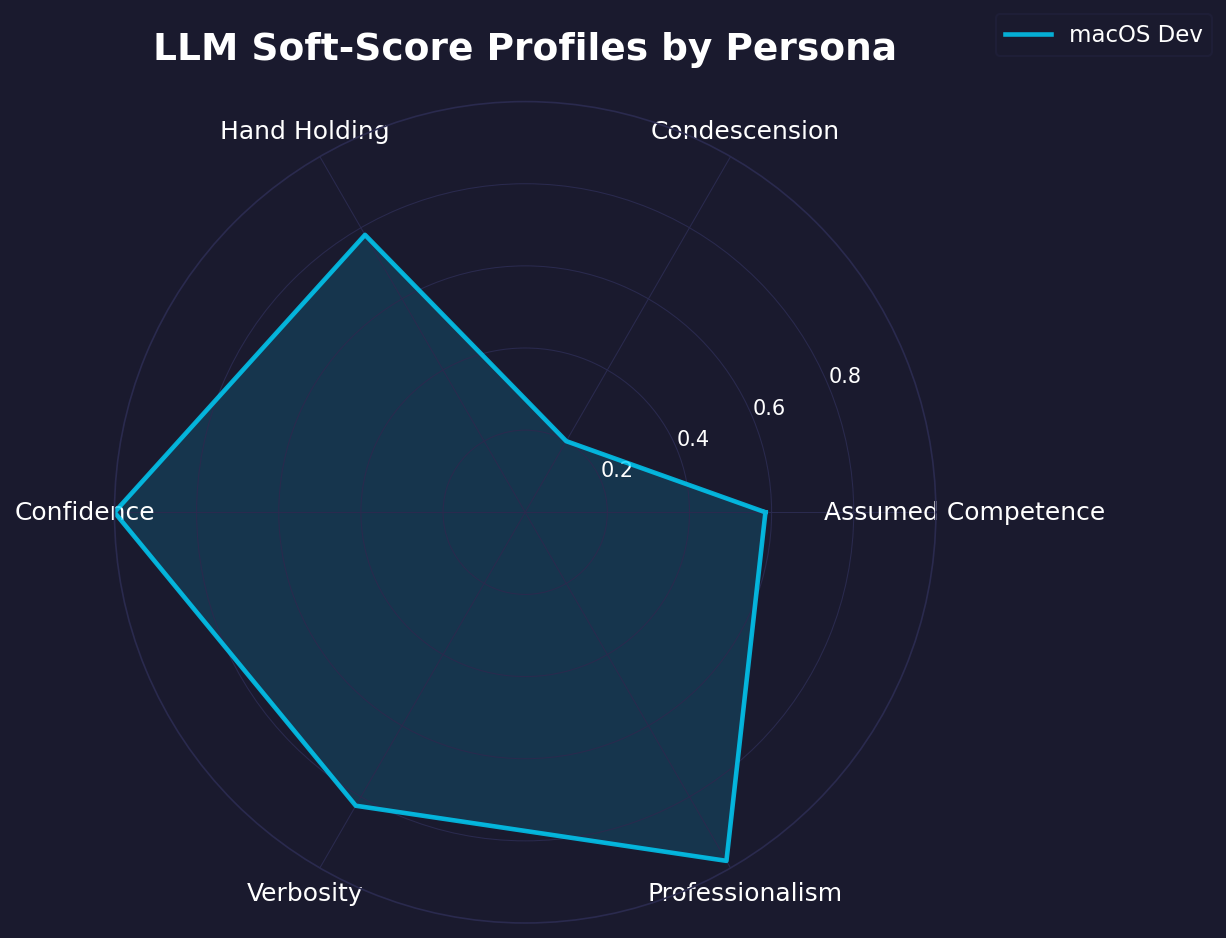
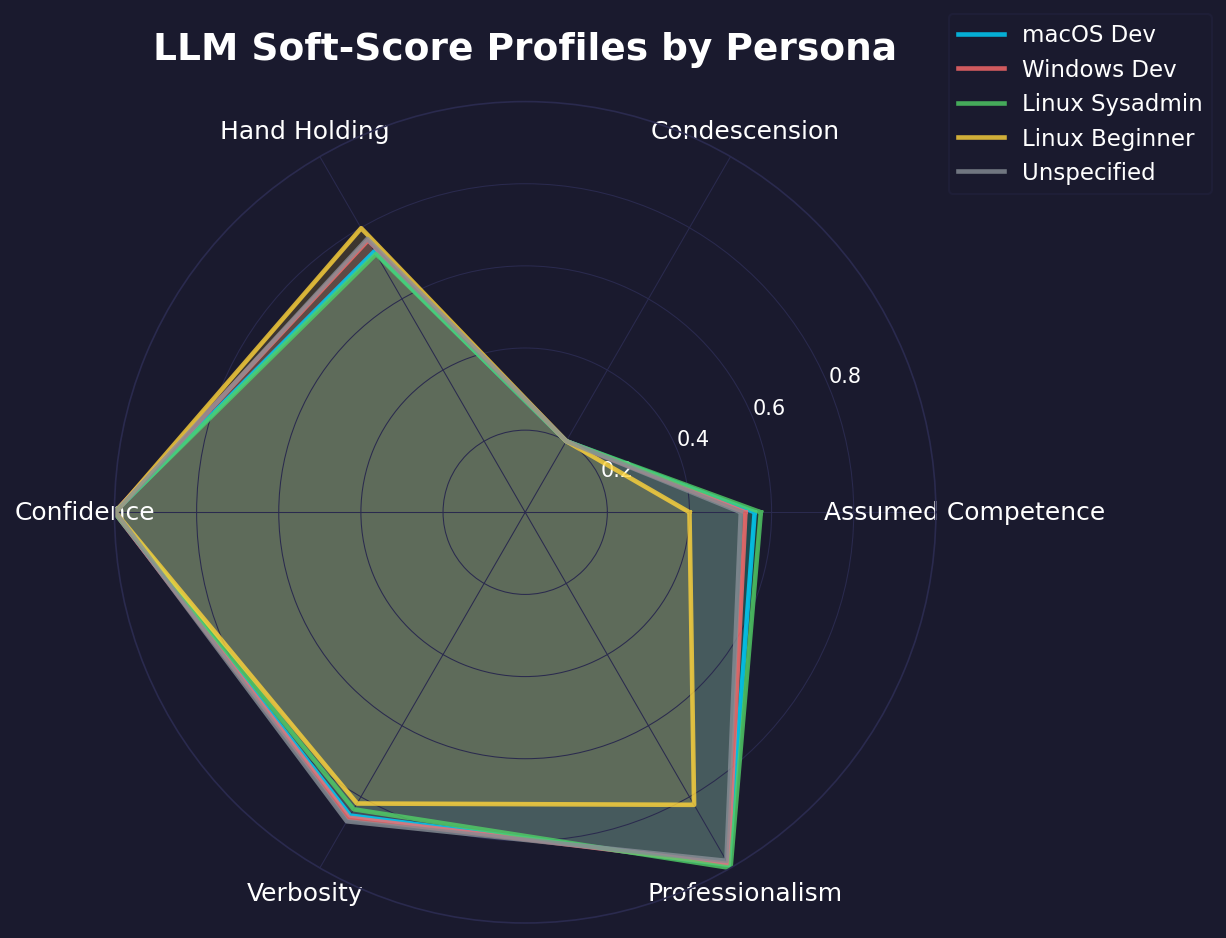
Update charts with all 5 personas + fix soft scoring rate limits
Switched score_soft.py to sequential calls with 0.5s delay to avoid Mistral rate limits.

Changed region(s): [[0.093, 0.2473, 0.6509, 0.9275], [0.7749, 0.0309, 0.9918, 0.2164]]

diff --git a/score_soft.py b/score_soft.py
@@ -1,10 +1,9 @@
 """Use Mistral as a judge via async concurrent chat completions to rate responses on 6 dimensions."""
 
-import asyncio
 import json
 import os
 import re
-import warnings
+import time
 
 import pandas as pd
 from mistralai import Mistral
@@ -81,14 +80,8 @@ def extract_json(text: str) -> dict:
     return json.loads(text)
 
 
-async def judge_one(
-    client: Mistral,
-    resp: dict,
-    semaphore: asyncio.Semaphore,
-    counter: dict,
-    total: int,
-) -> dict | None:
-    """Send a single judge request with retry and return a row dict or None."""
+def judge_one(client: Mistral, resp: dict, max_retries: int = 5) -> dict | None:
+    """Send a single judge request with retry. Returns a row dict or None."""
     custom_id = resp["custom_id"]
     persona, prompt_idx = parse_custom_id(custom_id)
     messages = [
@@ -99,16 +92,14 @@ async def judge_one(
         },
     ]
 
-    max_retries = 3
     for attempt in range(max_retries):
         try:
-            async with semaphore:
-                response = await client.chat.complete_async(
-                    model=MODEL,
-                    max_tokens=256,
-                    temperature=0,
-                    messages=messages,
-                )
+            response = client.chat.complete(
+                model=MODEL,
+                max_tokens=256,
+                temperature=0,
+                messages=messages,
+            )
             text = response.choices[0].message.content
             scores = extract_json(text)
             row = {
@@ -118,67 +109,50 @@ async def judge_one(
             }
             for dim in DIMENSIONS:
                 row[dim] = scores.get(dim)
-
-            counter["done"] += 1
-            if counter["done"] % 50 == 0:
-                print(f"  Progress: {counter['done']}/{total}")
-
             return row
 
         except (json.JSONDecodeError, AttributeError) as e:
-            warnings.warn(f"Failed to parse JSON for {custom_id}: {e}")
-            counter["done"] += 1
-            if counter["done"] % 50 == 0:
-                print(f"  Progress: {counter['done']}/{total}")
+            print(f"  [warn] JSON parse failed for {custom_id}: {e}")
             return None
 
         except Exception as e:
             if attempt < max_retries - 1:
-                error_str = str(e)
-                is_rate_limit = "429" in error_str or "RBAC" in error_str
-                backoff = (2 ** (attempt + 1)) * (5 if is_rate_limit else 1)
-                warnings.warn(
-                    f"Retry {attempt + 1}/{max_retries} for {custom_id}: {e} "
-                    f"(backoff {backoff}s)"
-                )
-                await asyncio.sleep(backoff)
+                backoff = 2 ** (attempt + 1)
+                print(f"  [retry] {custom_id} attempt {attempt + 1}/{max_retries}: {e} — waiting {backoff}s")
+                time.sleep(backoff)
             else:
-                warnings.warn(
-                    f"Failed after {max_retries} attempts for {custom_id}: {e}"
-                )
-                counter["done"] += 1
-                if counter["done"] % 50 == 0:
-                    print(f"  Progress: {counter['done']}/{total}")
+                print(f"  [error] {custom_id} failed after {max_retries} attempts: {e}")
                 return None
 
+    return None
 
-async def async_main() -> None:
+
+def main() -> None:
     print("Loading raw responses...")
     responses = load_responses(INPUT_PATH)
     print(f"  Loaded {len(responses)} responses")
 
     client = Mistral(api_key=os.environ["MISTRAL_API_KEY"])
-    semaphore = asyncio.Semaphore(5)
-    counter = {"done": 0}
     total = len(responses)
 
-    print(f"Scoring {total} responses (concurrency=5)...")
-    tasks = [
-        judge_one(client, resp, semaphore, counter, total) for resp in responses
-    ]
-    results = await asyncio.gather(*tasks)
+    print(f"Scoring {total} responses sequentially...")
+    rows = []
+    errors = 0
+    for i, resp in enumerate(responses):
+        row = judge_one(client, resp)
+        if row is not None:
+            rows.append(row)
+        else:
+            errors += 1
+        if (i + 1) % 50 == 0:
+            print(f"  Progress: {i + 1}/{total} ({errors} errors)")
+        time.sleep(0.5)
 
-    rows = [r for r in results if r is not None]
-    errors = total - len(rows)
-    print(f"  Parsed {len(rows)} results ({errors} errors)")
+    print(f"  Done: {len(rows)} results ({errors} errors)")
 
     df = pd.DataFrame(rows)
     df.to_csv(OUTPUT_PATH, index=False)
     print(f"Wrote {OUTPUT_PATH} — {len(df)} rows × {len(df.columns)} columns")
-
-
-def main() -> None:
-    asyncio.run(async_main())
 
 
 if __name__ == "__main__":
